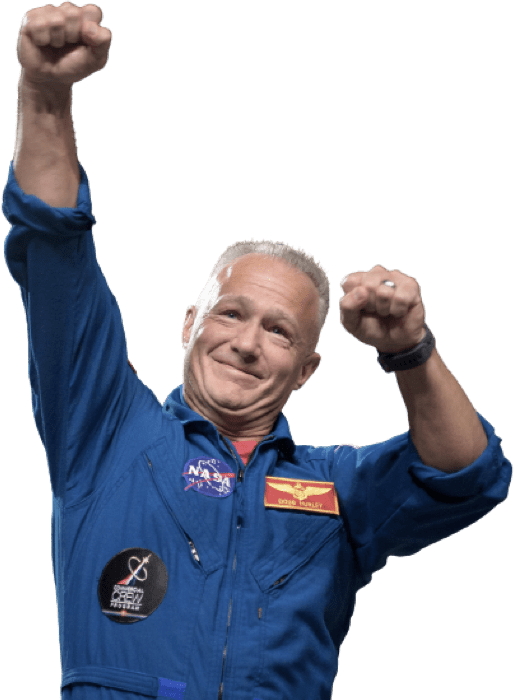
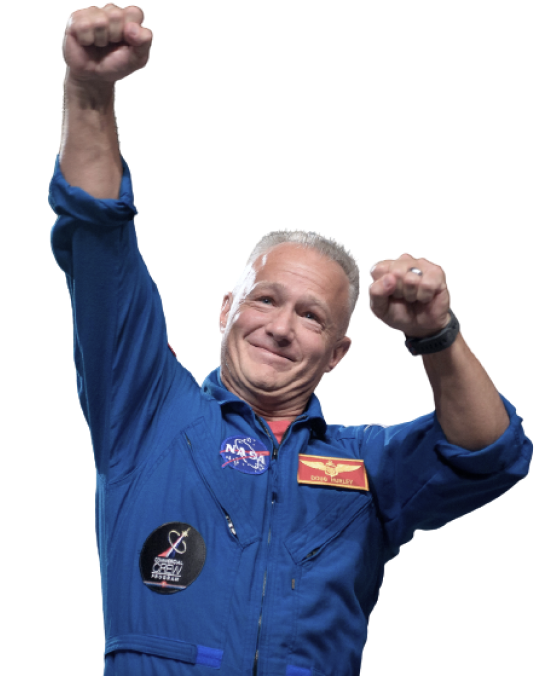
Create Crew Page

diff --git a/src/components/DestinationContent/Destination/Destination.jsx b/src/components/DestinationContent/Destination/Destination.jsx
@@ -1,22 +1,12 @@
-import { useEffect } from 'react';
-import { useNavigate, useSearchParams } from 'react-router-dom';
-import useFetchData from '../../../hooks/useFetchData';
+import { useGetData } from '../../../hooks/useGetData';
 import styles from './Destination.module.css';
 import DestionationsNav from '../DestionationsNav/DestionationsNav';
+import Loader from '../../Loader/Loader';
 
 export default function Destination() {
-  const [searchParams] = useSearchParams();
-  const navigate = useNavigate();
-  const { data } = useFetchData('http://localhost:8000/destinations');
+  const destination = useGetData('http://localhost:8000/destinations', 'moon');
 
-  const name = searchParams.get('name');
-  const destination = data.find(d => d.name.toLowerCase() === name.toLowerCase());
-
-  useEffect(() => {
-    if (!name) navigate('?name=moon');
-  }, [navigate, name]);
-
-  if (!destination) return <h1>Loading ...</h1>;
+  if (!destination) return <Loader />;
 
   return (
     <div className={styles.destination}>

diff --git a/src/components/CrewContent/CrewNav/CrewNav.jsx b/src/components/CrewContent/CrewNav/CrewNav.jsx
@@ -1,0 +1,24 @@
+import { Link, useSearchParams } from 'react-router-dom';
+import styles from './CrewNav.module.css';
+
+export default function CrewNav() {
+  const [searchParams] = useSearchParams();
+  const name = searchParams.get('name');
+
+  return (
+    <div className={styles.crewNav}>
+      <Link className={name === 'Douglas Hurley' ? 'active' : ''} to="?name=Douglas Hurley">
+        <div className={styles.circle}></div>
+      </Link>
+      <Link className={name === 'Mark Shuttleworth' ? 'active' : ''} to="?name=Mark Shuttleworth">
+        <div className={styles.circle}></div>
+      </Link>
+      <Link className={name === 'Victor Glover' ? 'active' : ''} to="?name=Victor Glover">
+        <div className={styles.circle}></div>
+      </Link>
+      <Link className={name === 'Anousheh Ansari' ? 'active' : ''} to="?name=Anousheh Ansari">
+        <div className={styles.circle}></div>
+      </Link>
+    </div>
+  );
+}

diff --git a/src/components/CrewContent/CrewMember/CrewMember.jsx b/src/components/CrewContent/CrewMember/CrewMember.jsx
@@ -1,0 +1,23 @@
+import { useGetData } from '../../../hooks/useGetData';
+import styles from './CrewMember.module.css';
+import Loader from '../../Loader/Loader';
+import CrewNav from '../CrewNav/CrewNav';
+
+export default function CrewMember() {
+  const person = useGetData('http://localhost:8000/crew', 'Douglas Hurley');
+  if (!person) return <Loader />;
+
+  return (
+    <div className={styles.crewMember}>
+      <div className={styles.about}>
+        <p className={styles.role}>{person.role}</p>
+        <h1>{person.name}</h1>
+        <p className={styles.bio}>{person.bio}</p>
+      </div>
+      <CrewNav />
+      <picture>
+        <img src={person.images.webp} alt={person.name} />
+      </picture>
+    </div>
+  );
+}

diff --git a/src/components/Loader/Loader.module.css b/src/components/Loader/Loader.module.css
@@ -1,0 +1,24 @@
+.loader {
+  width: 50px;
+  aspect-ratio: 1;
+  --c: no-repeat radial-gradient(farthest-side, #514b82 92%, #0000);
+  background: var(--c) 50% 0, var(--c) 50% 100%, var(--c) 100% 50%, var(--c) 0 50%;
+  background-size: 10px 10px;
+  animation: l18 1s infinite;
+  position: relative;
+  margin: 0 auto;
+}
+.loader::before {
+  content: '';
+  position: absolute;
+  inset: 0;
+  margin: 3px;
+  background: repeating-conic-gradient(#0000 0 35deg, #514b82 0 90deg);
+  -webkit-mask: radial-gradient(farthest-side, #0000 calc(100% - 3px), #000 0);
+  border-radius: 50%;
+}
+@keyframes l18 {
+  100% {
+    transform: rotate(0.5turn);
+  }
+}

diff --git a/src/components/CrewContent/CrewMember/CrewMember.module.css b/src/components/CrewContent/CrewMember/CrewMember.module.css
@@ -1,0 +1,40 @@
+.crewMember {
+  position: relative;
+  height: 734px;
+  display: flex;
+  justify-content: space-between;
+  align-items: center;
+  gap: 32px;
+}
+
+.about {
+  flex: 1;
+}
+.crewMember picture {
+  max-width: 100%;
+  flex: 1;
+}
+.crewMember img {
+  max-width: 100%;
+  height: auto;
+}
+
+.about p.role {
+  color: var(--white);
+  font: var(--font-32);
+  text-transform: uppercase;
+  opacity: 0.5;
+}
+
+.about h1 {
+  margin-top: 16px;
+  color: var(--white);
+  font: var(--font-56);
+  text-transform: uppercase;
+}
+
+.about p.bio {
+  margin-top: 24px;
+  color: var(--blue-300);
+  font: var(--font-18);
+}

diff --git a/src/hooks/useGetData.jsx b/src/hooks/useGetData.jsx
@@ -1,0 +1,17 @@
+import { useNavigate } from 'react-router';
+import { useSearchParams } from 'react-router-dom';
+import { useFetchData } from './useFetchData';
+import { useEffect } from 'react';
+
+export function useGetData(url, initialQuery = '') {
+  const [searchParams] = useSearchParams();
+  const navigate = useNavigate();
+  const { data } = useFetchData(url);
+  const name = searchParams.get('name');
+
+  useEffect(() => {
+    if (!name) navigate(`?name=${initialQuery}`);
+  }, [navigate, name, initialQuery]);
+
+  return name && data && data.find(d => d.name.toLowerCase() === name.toLowerCase());
+}

diff --git a/src/components/DestinationContent/DestinationContent.jsx b/src/components/DestinationContent/DestinationContent.jsx
@@ -1,11 +1,12 @@
-import styles from "./DestinationContent.module.css";
-import PageTitle from "../PageTitle/PageTitle";
-import Destination from "./Destination/Destination";
+import styles from './DestinationContent.module.css';
+import PageTitle from '../PageTitle/PageTitle';
+import Destination from './Destination/Destination';
 
 export default function DestinationContent() {
   return (
     <div className={styles.destinationContent}>
-      <PageTitle num={1} text={"PICK YOUR DESTINATION"} />
+      <PageTitle num={1} text={'PICK YOUR DESTINATION'} />
+
       <Destination />
     </div>
   );

diff --git a/src/pages/Destinations.jsx b/src/pages/Destinations.jsx
@@ -1,8 +1,8 @@
-import useBackground from "../hooks/useBackground";
-import DestinationContent from "../components/DestinationContent/DestinationContent";
+import { Suspense } from 'react';
+import useBackground from '../hooks/useBackground';
+import DestinationContent from '../components/DestinationContent/DestinationContent';
 
-const BG_SRC = "./assets/destination/background-destination-desktop.jpg";
-
+const BG_SRC = './assets/destination/background-destination-desktop.jpg';
 export default function Destinations() {
   useBackground(BG_SRC);
   return (

diff --git a/src/pages/Crew.jsx b/src/pages/Crew.jsx
@@ -1,13 +1,13 @@
-import PageTitle from "../components/PageTitle/PageTitle";
-import useBackground from "../hooks/useBackground";
+import CrewContent from '../components/CrewContent/CrewContent';
+import useBackground from '../hooks/useBackground';
 
-const BG_SRC = "./assets/crew/background-crew-desktop.jpg";
+const BG_SRC = './assets/crew/background-crew-desktop.jpg';
 
 export default function Crew() {
   useBackground(BG_SRC);
   return (
     <>
-      <PageTitle num={2} text={"MEET YOUR CREW"} />
+      <CrewContent />
     </>
   );
 }

diff --git a/src/pages/Home.jsx b/src/pages/Home.jsx
@@ -1,7 +1,7 @@
-import HomeContent from "../components/HomeContent/HomeContent";
-import useBackground from "../hooks/useBackground";
+import HomeContent from '../components/HomeContent/HomeContent';
+import useBackground from '../hooks/useBackground';
 
-const BG_SRC = "./assets/home/background-home-desktop.jpg";
+const BG_SRC = './assets/home/background-home-desktop.webp';
 
 export default function Home() {
   useBackground(BG_SRC);

diff --git a/src/components/CrewContent/CrewContent.jsx b/src/components/CrewContent/CrewContent.jsx
@@ -1,0 +1,12 @@
+import styles from './CrewContent.module.css';
+import PageTitle from '../PageTitle/PageTitle';
+import CrewMember from './CrewMember/CrewMember';
+
+export default function CrewContent() {
+  return (
+    <div className={styles.crewContent}>
+      <PageTitle num={2} text={'MEET YOUR CREW'} />
+      <CrewMember />
+    </div>
+  );
+}

diff --git a/src/components/CrewContent/CrewNav/CrewNav.module.css b/src/components/CrewContent/CrewNav/CrewNav.module.css
@@ -1,0 +1,23 @@
+.crewNav {
+  display: flex;
+  gap: 40px;
+
+  position: absolute;
+  left: 0;
+  bottom: 48px;
+}
+
+.circle {
+  width: 15px;
+  height: 15px;
+  border-radius: 50%;
+  background-color: var(--white);
+  opacity: 0.174363;
+}
+
+.circle:hover {
+  opacity: 0.5;
+}
+.crewNav :global(.active) .circle {
+  opacity: 1;
+}
